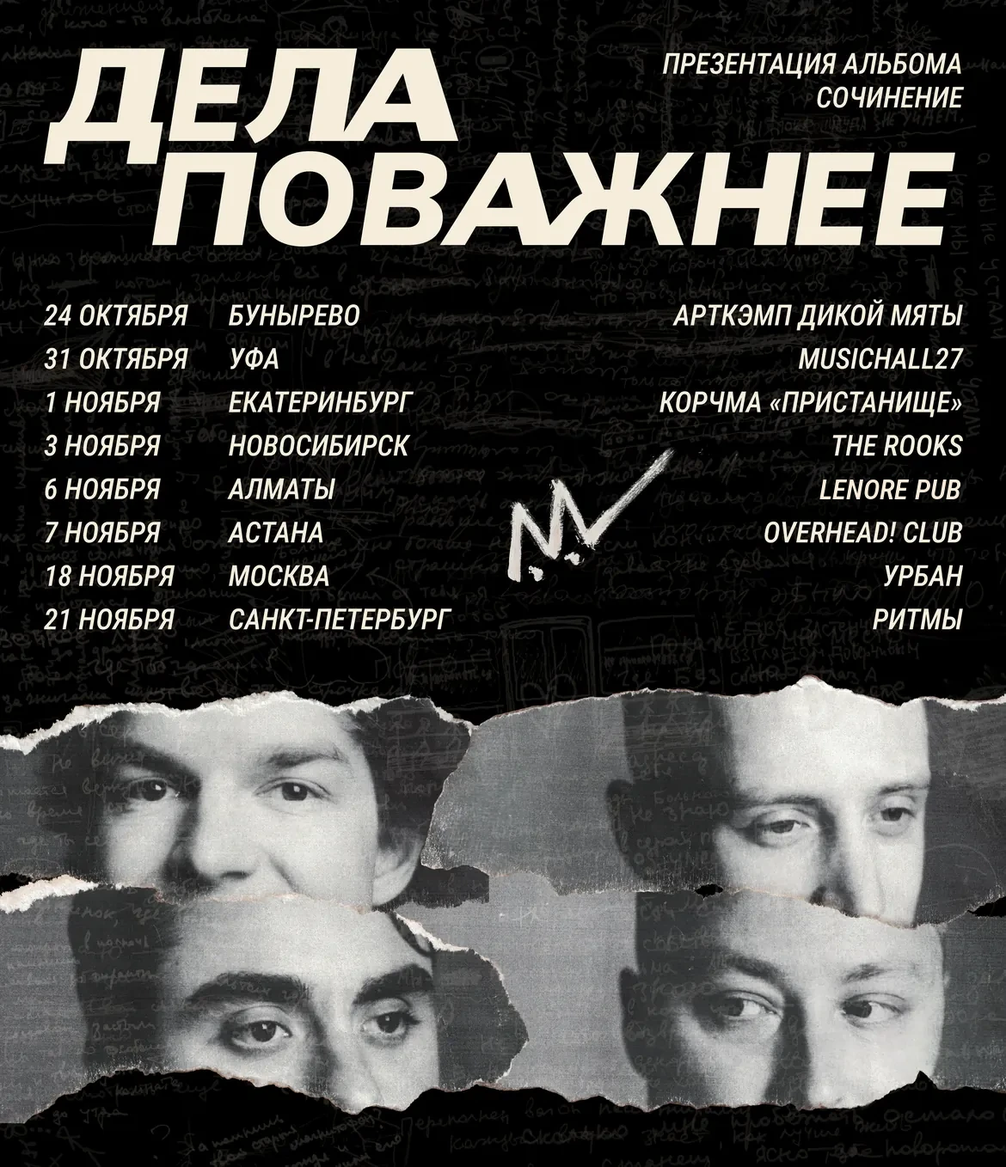
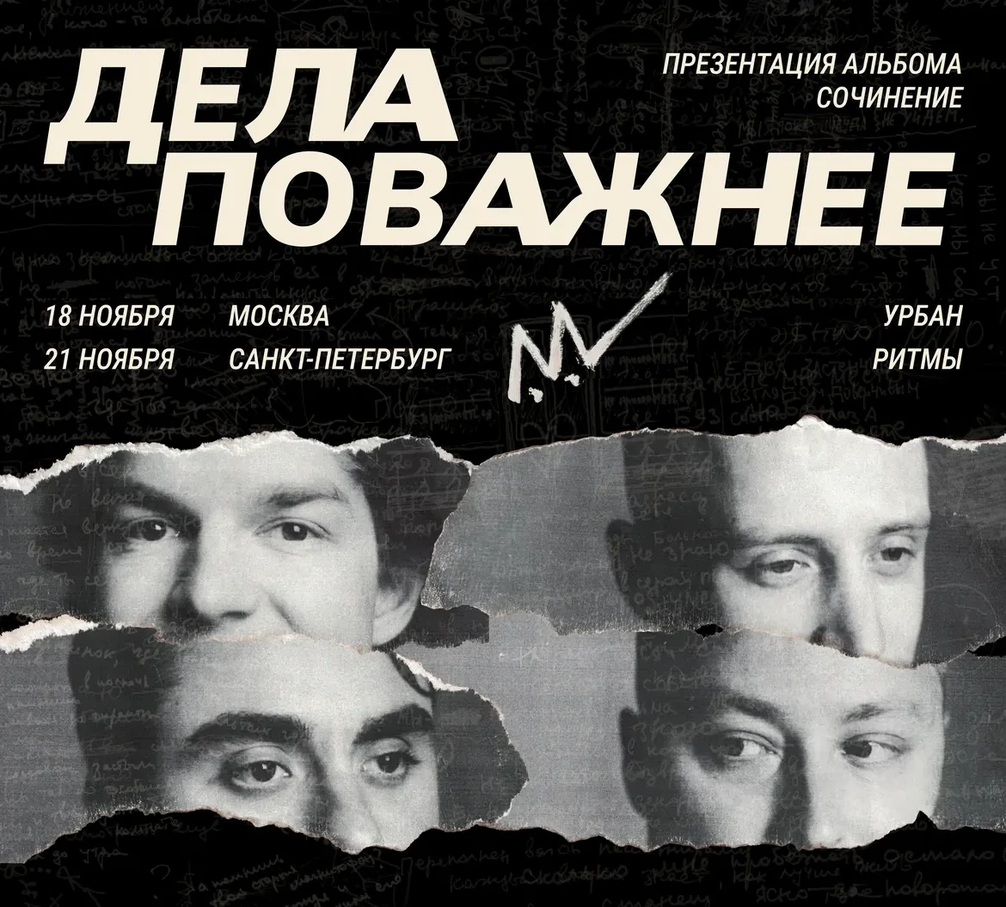
Leave only the Moscow and Saint Petersburg concerts
The rest of the tour has been played. /tickets lists the two remaining
concerts; the landing's tour poster is cut down to its header and those
two rows (layout ratios and the brace updated for the shorter sheet).
Posters of the past concerts are removed.

diff --git a/templates/tickets.html b/templates/tickets.html
@@ -4,7 +4,7 @@
     <meta charset="UTF-8">
     <meta name="viewport" content="width=device-width, initial-scale=1.0">
     <title>Билеты – Дела поважнее</title>
-    <meta name="description" content="Билеты на концерты группы «Дела поважнее»: презентация альбома «Сочинение». Бунырево, Уфа, Екатеринбург, Новосибирск, Алматы, Астана, Москва, Санкт-Петербург.">
+    <meta name="description" content="Билеты на концерты группы «Дела поважнее»: презентация альбома «Сочинение». Москва, Санкт-Петербург.">
     <meta name="theme-color" content="#000000">
     <meta property="og:site_name" content="Дела поважнее">
     <link rel="icon" href="/static/home/favicon.ico" sizes="any">
@@ -55,11 +55,7 @@
       .gig__when small { display: block; font-size: 0.8em; color: var(--pencil); }
       .gig__city { font-size: clamp(26px, 3.7vw, 48px); line-height: 0.95; overflow-wrap: anywhere; }
       .gig__venue { margin-top: 7px; font-size: clamp(14px, 1.5vw, 17px); line-height: 1.25; color: var(--pencil); }
-      /* what this concert is, where it differs from the page's heading (Bunyrevo
-         is not the album presentation) — in the type's own cream, so it's read */
-      .gig__program { margin-top: 5px; font-size: clamp(14px, 1.5vw, 17px); line-height: 1.25; font-weight: 600; }
       .gig__action { display: flex; flex-direction: column; align-items: flex-end; gap: 9px; }
-      .gig__note { font-weight: 600; font-size: clamp(15px, 1.7vw, 18px); line-height: 1.2; }
       .gig__action .btn { min-width: 10em; }
       /* TicketsCloud (tcwidget.js) wires the click via data-tc-event and tries to
          restyle the button; !important keeps it the same button as the others. */
@@ -116,80 +112,6 @@
 
       <ol class="gigs">
         <li class="gig">
-          <img class="gig__poster" src="/static/home/tour-myata.webp" width="640" height="800" loading="lazy" data-i18n-attr="alt:myata_alt" alt="Афиша концерта в Бунырево, 24 октября, арткэмп «Дикой мяты», вход свободный">
-          <div class="gig__lines">
-            <div class="gig__line">
-              <p class="gig__when listing"><span data-i18n="myata_when">24 октября</span><small data-i18n="myata_time">21:00</small></p>
-              <div class="gig__where">
-                <h2 class="gig__city display" data-i18n="myata_city">Бунырево</h2>
-                <p class="gig__venue listing" data-i18n="myata_venue">Арткэмп «Дикой мяты»</p>
-                <p class="gig__program listing" data-i18n="myata_program">Не презентация: играем любимые песни</p>
-              </div>
-              <div class="gig__action"><span class="gig__note listing" data-i18n="free">Вход свободный</span><a class="btn btn--line" href="https://wmcamp.ru/vacationin/tpost/5er49e2051-2325-oktyabrya-stilnie-vihodnie" target="_blank" rel="noopener" data-i18n="about">О концерте</a></div>
-            </div>
-          </div>
-        </li>
-        <li class="gig">
-          <img class="gig__poster" src="/static/home/tour-ufa.webp" width="640" height="906" loading="lazy" data-i18n-attr="alt:ufa_alt" alt="Афиша концерта в Уфе, 31 октября, MusicHall27">
-          <div class="gig__lines">
-            <div class="gig__line">
-              <p class="gig__when listing"><span data-i18n="ufa_when">31 октября</span></p>
-              <div class="gig__where">
-                <h2 class="gig__city display" data-i18n="ufa_city">Уфа</h2>
-                <p class="gig__venue listing" data-i18n="ufa_venue">MusicHall27, ул. Кирова, 27</p>
-              </div>
-              <div class="gig__action"><button type="button" class="gig__tix btn btn--fill tc-background-tomato" data-tc-event="6a46a070983da59ac77d8ccd" data-tc-token="eyJhbGciOiJIUzI1NiIsImlzcyI6InRpY2tldHNjbG91ZC5ydSIsInR5cCI6IkpXVCJ9.eyJwIjoiNWQ3ZmI4NjY0MmIyYjZhMzI5NjI1YjMyIn0.f8LLjhDTa68xuLUNnxHyqXfKEhrk4xaUWih52CEt7PU" data-tc-utm_source="site" data-i18n="tickets">Билеты</button></div>
-            </div>
-          </div>
-        </li>
-        <li class="gig">
-          <img class="gig__poster" src="/static/home/tour-ekb.webp" width="640" height="906" loading="lazy" data-i18n-attr="alt:ekb_alt" alt="Афиша концерта в Екатеринбурге, 1 ноября, корчма «Пристанище»">
-          <div class="gig__lines">
-            <div class="gig__line">
-              <p class="gig__when listing"><span data-i18n="ekb_when">1 ноября</span></p>
-              <div class="gig__where">
-                <h2 class="gig__city display" data-i18n="ekb_city">Екатеринбург</h2>
-                <p class="gig__venue listing" data-i18n="ekb_venue">Корчма «Пристанище», ул. Бебеля, 124</p>
-              </div>
-              <div class="gig__action"><button type="button" class="gig__tix btn btn--fill tc-background-tomato" data-tc-event="6a4b6ed19f4bf9931aca2868" data-tc-token="eyJhbGciOiJIUzI1NiIsImlzcyI6InRpY2tldHNjbG91ZC5ydSIsInR5cCI6IkpXVCJ9.eyJwIjoiNWQ3ZmI4NjY0MmIyYjZhMzI5NjI1YjMyIn0.f8LLjhDTa68xuLUNnxHyqXfKEhrk4xaUWih52CEt7PU" data-tc-utm_source="site" data-i18n="tickets">Билеты</button></div>
-            </div>
-          </div>
-        </li>
-        <li class="gig">
-          <img class="gig__poster" src="/static/home/tour-nsk.webp" width="640" height="906" loading="lazy" data-i18n-attr="alt:nsk_alt" alt="Афиша концерта в Новосибирске, 3 ноября, The Rooks">
-          <div class="gig__lines">
-            <div class="gig__line">
-              <p class="gig__when listing"><span data-i18n="nsk_when">3 ноября</span></p>
-              <div class="gig__where">
-                <h2 class="gig__city display" data-i18n="nsk_city">Новосибирск</h2>
-                <p class="gig__venue listing" data-i18n="nsk_venue">The Rooks, ул. Коммунистическая, 45</p>
-              </div>
-              <div class="gig__action"><button type="button" class="gig__tix btn btn--fill tc-background-tomato" data-tc-event="6a7085d06d1bdc42b48fdf81" data-tc-token="eyJhbGciOiJIUzI1NiIsImlzcyI6InRpY2tldHNjbG91ZC5ydSIsInR5cCI6IkpXVCJ9.eyJwIjoiNWQ3ZmI4NjY0MmIyYjZhMzI5NjI1YjMyIn0.f8LLjhDTa68xuLUNnxHyqXfKEhrk4xaUWih52CEt7PU" data-tc-utm_source="site" data-i18n="tickets">Билеты</button></div>
-            </div>
-          </div>
-        </li>
-        <li class="gig">
-          <img class="gig__poster" src="/static/home/tour-kz.webp" width="640" height="800" loading="lazy" data-i18n-attr="alt:kz_alt" alt="Афиша концертов в Казахстане: 6 ноября — Алматы, фестиваль «Шабаш»; 7 ноября — Астана, клуб Overhead">
-          <div class="gig__lines">
-            <div class="gig__line">
-              <p class="gig__when listing"><span data-i18n="almaty_when">6 ноября</span></p>
-              <div class="gig__where">
-                <h2 class="gig__city display" data-i18n="almaty_city">Алматы</h2>
-                <p class="gig__venue listing" data-i18n="almaty_venue">Фестиваль «Шабаш»</p>
-              </div>
-              <div class="gig__action"><a class="btn btn--fill" href="https://ticketon.kz/concerts/event/tckt2-dela-povazhnee-shabash-almaty" target="_blank" rel="noopener" data-i18n="tickets">Билеты</a></div>
-            </div>
-            <div class="gig__line">
-              <p class="gig__when listing"><span data-i18n="astana_when">7 ноября</span></p>
-              <div class="gig__where">
-                <h2 class="gig__city display" data-i18n="astana_city">Астана</h2>
-                <p class="gig__venue listing" data-i18n="astana_venue">Overhead! Club</p>
-              </div>
-              <div class="gig__action"><a class="btn btn--fill" href="https://ticketon.kz/concerts/event/tckt2-dela-povazhnee-shabash-astana" target="_blank" rel="noopener" data-i18n="tickets">Билеты</a></div>
-            </div>
-          </div>
-        </li>
-        <li class="gig">
           <img class="gig__poster" src="/static/home/tour-msk.webp" width="640" height="906" loading="lazy" data-i18n-attr="alt:msk_alt" alt="Афиша концерта в Москве, 18 ноября, Урбан">
           <div class="gig__lines">
             <div class="gig__line">
@@ -229,60 +151,33 @@
       window.DP_I18N = {
         ru: {
           title: "Билеты – Дела поважнее",
-          meta_desc: "Билеты на концерты группы «Дела поважнее»: презентация альбома «Сочинение». Бунырево, Уфа, Екатеринбург, Новосибирск, Алматы, Астана, Москва, Санкт-Петербург.",
+          meta_desc: "Билеты на концерты группы «Дела поважнее»: презентация альбома «Сочинение». Москва, Санкт-Петербург.",
           logo_alt: "Дела поважнее", nav_menu: "Меню",
           nav_release: "Альбом «Сочинение»", nav_concerts: "Концерты", nav_tickets: "Билеты", nav_listen: "Слушать", nav_play: "Играть →",
           h1: "Билеты", sub: "Презентация альбома «Сочинение»",
-          tickets: "Билеты", free: "Вход свободный", about: "О концерте",
-          myata_when: "24 октября", myata_time: "21:00", myata_city: "Бунырево", myata_venue: "Арткэмп «Дикой мяты»",
-          myata_program: "(Любимые песни)",
-          myata_alt: "Афиша концерта в Бунырево, 24 октября, арткэмп «Дикой мяты», вход свободный",
-          ufa_when: "31 октября", ufa_city: "Уфа", ufa_venue: "MusicHall27, ул. Кирова, 27", ufa_alt: "Афиша концерта в Уфе, 31 октября, MusicHall27",
-          ekb_when: "1 ноября", ekb_city: "Екатеринбург", ekb_venue: "Корчма «Пристанище», ул. Бебеля, 124", ekb_alt: "Афиша концерта в Екатеринбурге, 1 ноября, корчма «Пристанище»",
-          nsk_when: "3 ноября", nsk_city: "Новосибирск", nsk_venue: "The Rooks, ул. Коммунистическая, 45", nsk_alt: "Афиша концерта в Новосибирске, 3 ноября, The Rooks",
-          almaty_when: "6 ноября", almaty_city: "Алматы", almaty_venue: "Фестиваль «Шабаш»",
-          astana_when: "7 ноября", astana_city: "Астана", astana_venue: "Overhead! Club",
-          kz_alt: "Афиша концертов в Казахстане: 6 ноября — Алматы, фестиваль «Шабаш»; 7 ноября — Астана, клуб Overhead",
+          tickets: "Билеты",
           msk_when: "18 ноября", msk_city: "Москва", msk_venue: "Урбан, ул. Б. Новодмитровская, 36с24", msk_alt: "Афиша концерта в Москве, 18 ноября, Урбан",
           spb_when: "21 ноября", spb_city: "Санкт-Петербург", spb_venue: "Ритмы, Кожевенная линия, 34", spb_alt: "Афиша концерта в Санкт-Петербурге, 21 ноября, Ритмы",
           footer_copy: "© Дела поважнее, 2026", footer_home: "На главную"
         },
         en: {
           title: "Tickets – Dela povazhnee",
-          meta_desc: "Tickets for Dela povazhnee shows: the «Sochinenie» album presentation. Bunyrevo, Ufa, Ekaterinburg, Novosibirsk, Almaty, Astana, Moscow, Saint Petersburg.",
+          meta_desc: "Tickets for Dela povazhnee shows: the «Sochinenie» album presentation. Moscow, Saint Petersburg.",
           logo_alt: "Dela povazhnee", nav_menu: "Menu",
           nav_release: "Album «Sochinenie»", nav_concerts: "Shows", nav_tickets: "Tickets", nav_listen: "Listen", nav_play: "Play →",
           h1: "Tickets", sub: "«Sochinenie» album presentation",
-          tickets: "Tickets", free: "Free entry", about: "About the show",
-          myata_when: "October 24", myata_time: "21:00", myata_city: "Bunyrevo", myata_venue: "Dikaya Myata art camp",
-          myata_program: "Not the album presentation: we play the favourites",
-          myata_alt: "Bunyrevo show poster, October 24, Dikaya Myata art camp, free entry",
-          ufa_when: "October 31", ufa_city: "Ufa", ufa_venue: "MusicHall27, Kirova 27", ufa_alt: "Ufa show poster, October 31, MusicHall27",
-          ekb_when: "November 1", ekb_city: "Ekaterinburg", ekb_venue: "Pristanishche, Bebelya 124", ekb_alt: "Ekaterinburg show poster, November 1, Pristanishche",
-          nsk_when: "November 3", nsk_city: "Novosibirsk", nsk_venue: "The Rooks, Kommunisticheskaya 45", nsk_alt: "Novosibirsk show poster, November 3, The Rooks",
-          almaty_when: "November 6", almaty_city: "Almaty", almaty_venue: "Shabash festival",
-          astana_when: "November 7", astana_city: "Astana", astana_venue: "Overhead! Club",
-          kz_alt: "Kazakhstan shows poster: November 6 — Almaty, Shabash festival; November 7 — Astana, Overhead club",
+          tickets: "Tickets",
           msk_when: "November 18", msk_city: "Moscow", msk_venue: "Urban, B. Novodmitrovskaya 36s24", msk_alt: "Moscow show poster, November 18, Urban",
           spb_when: "November 21", spb_city: "Saint Petersburg", spb_venue: "Ritmy, Kozhevennaya liniya 34", spb_alt: "Saint Petersburg show poster, November 21, Ritmy",
           footer_copy: "© Dela povazhnee, 2026", footer_home: "Home"
         },
         zh: {
           title: "购票 – Dela povazhnee",
-          meta_desc: "Dela povazhnee 演出门票：专辑《Sochinenie》首演。Bunyrevo、乌法、叶卡捷琳堡、新西伯利亚、阿拉木图、阿斯塔纳、莫斯科、圣彼得堡。",
+          meta_desc: "Dela povazhnee 演出门票：专辑《Sochinenie》首演。莫斯科、圣彼得堡。",
           logo_alt: "Dela povazhnee", nav_menu: "菜单",
           nav_release: "专辑《Sochinenie》", nav_concerts: "演出", nav_tickets: "购票", nav_listen: "收听", nav_play: "开始游戏 →",
           h1: "购票", sub: "专辑《Sochinenie》首演",
-          tickets: "购票", free: "免费入场", about: "演出详情",
-          myata_when: "10月24日", myata_time: "21:00", myata_city: "Bunyrevo", myata_venue: "Dikaya Myata 艺术营",
-          myata_program: "非专辑首演：演唱大家喜爱的歌曲",
-          myata_alt: "Bunyrevo 演出海报，10月24日，Dikaya Myata 艺术营，免费入场",
-          ufa_when: "10月31日", ufa_city: "乌法", ufa_venue: "MusicHall27, Kirova 27", ufa_alt: "乌法演出海报，10月31日，MusicHall27",
-          ekb_when: "11月1日", ekb_city: "叶卡捷琳堡", ekb_venue: "Pristanishche, Bebelya 124", ekb_alt: "叶卡捷琳堡演出海报，11月1日，Pristanishche",
-          nsk_when: "11月3日", nsk_city: "新西伯利亚", nsk_venue: "The Rooks, Kommunisticheskaya 45", nsk_alt: "新西伯利亚演出海报，11月3日，The Rooks",
-          almaty_when: "11月6日", almaty_city: "阿拉木图", almaty_venue: "Shabash 音乐节",
-          astana_when: "11月7日", astana_city: "阿斯塔纳", astana_venue: "Overhead! Club",
-          kz_alt: "哈萨克斯坦演出海报：11月6日 — 阿拉木图，Shabash 音乐节；11月7日 — 阿斯塔纳，Overhead 俱乐部",
+          tickets: "购票",
           msk_when: "11月18日", msk_city: "莫斯科", msk_venue: "Urban, B. Novodmitrovskaya 36s24", msk_alt: "莫斯科演出海报，11月18日，Urban",
           spb_when: "11月21日", spb_city: "圣彼得堡", spb_venue: "Ritmy, Kozhevennaya liniya 34", spb_alt: "圣彼得堡演出海报，11月21日，Ritmy",
           footer_copy: "© Dela povazhnee, 2026", footer_home: "返回首页"

diff --git a/templates/home.html b/templates/home.html
@@ -148,26 +148,26 @@
       .concerts .wrap { flex: 1 1 auto; min-height: 0; display: flex; flex-direction: column; }
       .concerts .section__eyebrow { margin-bottom: 4px; } /* the poster brings its own top margin */
       .tour-row { display: flex; align-items: stretch; gap: clamp(14px, 1.8vw, 24px); margin-block: auto; }
-      /* Desktop poster (tour-d.webp, 2000×1276): the sheet's type with a margin
-         of its handwriting around it — 3.08% left/right, 3.5% top/bottom. The
+      /* Desktop poster (tour-d.webp, 2000×745): the sheet's type with a margin
+         of its handwriting around it — 3.08% left/right, 6% top/bottom. The
          margin hangs outside .tour and fades out, so the poster has no edge on
          the page and its type starts on the page's own left line. .tour is the
          type block; it gives way to the height like the album cover
-         (width = image height × 1.4764). */
-      .tour { display: block; flex: 0 1 auto; min-width: 0; width: min(100%, calc((100svh - 200px) * 1.4764)); }
+         (width = image height × 2.5288). */
+      .tour { display: block; flex: 0 1 auto; min-width: 0; width: min(100%, calc((100svh - 200px) * 2.5288)); }
       .tour picture { display: block; margin-inline: -3.08%; }
       .tour img {
         display: block; width: 100%; height: auto;
-        -webkit-mask-image: linear-gradient(to right, transparent, #000 3%, #000 97%, transparent), linear-gradient(to bottom, transparent, #000 3.4%, #000 96.6%, transparent);
+        -webkit-mask-image: linear-gradient(to right, transparent, #000 3%, #000 97%, transparent), linear-gradient(to bottom, transparent, #000 5.9%, #000 94.1%, transparent);
         -webkit-mask-composite: source-in;
-        mask-image: linear-gradient(to right, transparent, #000 3%, #000 97%, transparent), linear-gradient(to bottom, transparent, #000 3.4%, #000 96.6%, transparent);
+        mask-image: linear-gradient(to right, transparent, #000 3%, #000 97%, transparent), linear-gradient(to bottom, transparent, #000 5.9%, #000 94.1%, transparent);
         mask-composite: intersect;
       }
       /* The button belongs to the list of dates, so it stands beside the list
-         (rows 44.5%–96.5% of the poster's height), and a pencilled brace gathers
-         the eight rows into it — the way the drafts on the cover annotate
+         (rows 76.2%–94% of the poster's height), and a pencilled brace gathers
+         the two rows into it — the way the drafts on the cover annotate
          themselves. */
-      .tour__cta { flex: 0 0 auto; display: grid; grid-template-rows: 44.5fr 52fr 3.5fr; }
+      .tour__cta { flex: 0 0 auto; display: grid; grid-template-rows: 76.2fr 17.8fr 6fr; }
       .tour__aside { grid-row: 2; position: relative; display: flex; align-items: center; padding-left: 52px; }
       .tour__brace { position: absolute; left: 0; top: 0; width: 30px; height: 100%; overflow: visible; }
       .tour__brace path { fill: none; stroke: var(--chalk); stroke-width: 1.3px; stroke-linecap: round; stroke-linejoin: round; opacity: 0.6; }
@@ -175,7 +175,7 @@
       /* too narrow for poster + button side by side: the button goes under the list */
       @media (max-width: 1000px) {
         .tour-row { flex-direction: column; align-items: flex-start; gap: 16px; }
-        .tour { width: min(100%, calc((100svh - 264px) * 1.4764)); }
+        .tour { width: min(100%, calc((100svh - 264px) * 2.5288)); }
         .tour__cta { display: block; }
         .tour__aside { padding-left: 0; }
         .tour__brace { display: none; }
@@ -238,11 +238,11 @@
         .release__cue { position: static; align-self: flex-start; }
         .release__lead { max-width: none; font-size: 15px; line-height: 1.4; margin: 12px 0 16px; }
 
-        /* Concerts: the whole vertical poster (tour-m.webp, 1170×1358, with the
+        /* Concerts: the whole vertical poster (tour-m.webp, 1170×1055, with the
            faces — it keeps its edges), then the button, full width */
         .concerts .section__eyebrow { margin-bottom: 12px; flex-wrap: wrap; row-gap: 0; }
         .tour-row { align-items: stretch; gap: 14px; }
-        .tour { align-self: center; width: min(100%, calc(min(100svh - 218px, 100lvh - 262px) * 0.8615)); }
+        .tour { align-self: center; width: min(100%, calc(min(100svh - 218px, 100lvh - 262px) * 1.109)); }
         .tour picture { margin-inline: 0; }
         .tour img { -webkit-mask-image: none; mask-image: none; }
         .tour__cta .btn { width: 100%; }
@@ -331,8 +331,8 @@
         <div class="tour-row">
           <a class="tour" href="/tickets">
             <picture>
-              <source media="(max-width: 760px)" srcset="/static/home/tour-m.webp" width="1170" height="1358">
-              <img src="/static/home/tour-d.webp" width="2000" height="1276" data-i18n-attr="alt:tour_alt" alt="Афиша тура «Презентация альбома Сочинение»: 24 октября — Бунырево, арткэмп «Дикой мяты»; 31 октября — Уфа, MusicHall27; 1 ноября — Екатеринбург, корчма «Пристанище»; 3 ноября — Новосибирск, The Rooks; 6 ноября — Алматы, Lenore Pub; 7 ноября — Астана, Overhead! Club; 18 ноября — Москва, Урбан; 21 ноября — Санкт-Петербург, Ритмы">
+              <source media="(max-width: 760px)" srcset="/static/home/tour-m.webp" width="1170" height="1055">
+              <img src="/static/home/tour-d.webp" width="2000" height="745" data-i18n-attr="alt:tour_alt" alt="Афиша тура «Презентация альбома Сочинение»: 18 ноября — Москва, Урбан; 21 ноября — Санкт-Петербург, Ритмы">
             </picture>
           </a>
           <div class="tour__cta">
@@ -399,7 +399,7 @@
           release_lead: "Сохрани альбом заранее — он придёт в твою медиатеку в день выхода. И чем больше пресейвов, тем выше он поднимется в стримингах.",
           btn_release: "Слушать альбом",
           concerts_eyebrow: 'Концерты <small>презентация альбома «Сочинение»</small>', btn_tickets: "Билеты",
-          tour_alt: "Афиша тура «Презентация альбома Сочинение»: 24 октября — Бунырево, арткэмп «Дикой мяты»; 31 октября — Уфа, MusicHall27; 1 ноября — Екатеринбург, корчма «Пристанище»; 3 ноября — Новосибирск, The Rooks; 6 ноября — Алматы, Lenore Pub; 7 ноября — Астана, Overhead! Club; 18 ноября — Москва, Урбан; 21 ноября — Санкт-Петербург, Ритмы",
+          tour_alt: "Афиша тура «Презентация альбома Сочинение»: 18 ноября — Москва, Урбан; 21 ноября — Санкт-Петербург, Ритмы",
           listen_eyebrow: "Ссылки", listen_title: 'Найти<br>нас',
           streamings: "Стриминги", yandex: "Яндекс Музыка", vkmusic: "VK Музыка",
           socials: "Соцсети", vk: "ВКонтакте", instagram: "Запретграм",
@@ -417,7 +417,7 @@
           release_lead: "Pre-save it now and it lands in your library the day it drops. Every pre-save also pushes the album higher on streaming.",
           btn_release: "Listen to the album",
           concerts_eyebrow: 'Shows <small>«Sochinenie» album presentation</small>', btn_tickets: "Tickets",
-          tour_alt: "«Sochinenie» album presentation tour poster: October 24 — Bunyrevo, Dikaya Myata art camp; October 31 — Ufa, MusicHall27; November 1 — Ekaterinburg, Pristanishche; November 3 — Novosibirsk, The Rooks; November 6 — Almaty, Lenore Pub; November 7 — Astana, Overhead! Club; November 18 — Moscow, Urban; November 21 — Saint Petersburg, Ritmy",
+          tour_alt: "«Sochinenie» album presentation tour poster: November 18 — Moscow, Urban; November 21 — Saint Petersburg, Ritmy",
           listen_eyebrow: "Links", listen_title: 'Find<br>us',
           streamings: "Streaming", yandex: "Yandex Music", vkmusic: "VK Music",
           socials: "Social", vk: "VKontakte", instagram: "Ins****am",
@@ -435,7 +435,7 @@
           release_lead: "现在就预存这张专辑——上线当天它会自动进入你的音乐库。预存越多，专辑在流媒体上的排名越高。",
           btn_release: "收听专辑",
           concerts_eyebrow: '演出 <small>专辑《Sochinenie》首演</small>', btn_tickets: "购票",
-          tour_alt: "专辑《Sochinenie》首演巡演海报：10月24日 — Bunyrevo，Dikaya Myata 艺术营；10月31日 — 乌法，MusicHall27；11月1日 — 叶卡捷琳堡，Pristanishche；11月3日 — 新西伯利亚，The Rooks；11月6日 — 阿拉木图，Lenore Pub；11月7日 — 阿斯塔纳，Overhead! Club；11月18日 — 莫斯科，Urban；11月21日 — 圣彼得堡，Ritmy",
+          tour_alt: "专辑《Sochinenie》首演巡演海报：11月18日 — 莫斯科，Urban；11月21日 — 圣彼得堡，Ritmy",
           listen_eyebrow: "链接", listen_title: '找到<br>我们',
           streamings: "流媒体", yandex: "Yandex Music", vkmusic: "VK Music",
           socials: "社交媒体", vk: "VKontakte", instagram: "Ins****am",

diff --git a/tests/test_routing.py b/tests/test_routing.py
@@ -8,13 +8,8 @@ HOME_ASSETS = Path(__file__).parents[1] / "static" / "home"
 # phones, cut above the torn faces on desktop (the hero already has the band).
 TOUR_POSTERS = ("tour-m.webp", "tour-d.webp")
 
-# The tickets page: one poster per row. Kazakhstan shares one for two dates.
+# The tickets page: one poster per row — only the concerts still ahead.
 GIG_POSTERS = (
-    "tour-myata.webp",
-    "tour-ufa.webp",
-    "tour-ekb.webp",
-    "tour-nsk.webp",
-    "tour-kz.webp",
     "tour-msk.webp",
     "tour-spb.webp",
 )
@@ -25,19 +20,11 @@ GIG_POSTERS = (
 RELEASE_COVER = "sochinenie.webp"
 LISTEN_URL = "https://dnkmusic.ru/sochinenie_"
 
-# TicketsCloud events: Ufa, Ekaterinburg, Novosibirsk, Moscow, Saint Petersburg.
+# TicketsCloud events: Moscow, Saint Petersburg.
 EVENT_IDS = (
-    "6a46a070983da59ac77d8ccd",
-    "6a4b6ed19f4bf9931aca2868",
-    "6a7085d06d1bdc42b48fdf81",
     "6a186cb9dd25944b28dbb181",
     "6a19b3b6f4606596ec821030",
 )
-
-TICKETON = {
-    "Алматы": "https://ticketon.kz/concerts/event/tckt2-dela-povazhnee-shabash-almaty",
-    "Астана": "https://ticketon.kz/concerts/event/tckt2-dela-povazhnee-shabash-astana",
-}
 
 
 def test_root_serves_landing(client):
@@ -85,16 +72,16 @@ def test_tickets_page_is_served(client):
     assert "<title>Билеты – Дела поважнее</title>" in client.get("/tickets").text
 
 
-def test_tickets_page_has_one_ticketscloud_trigger_per_russian_city(client):
+def test_tickets_page_has_one_ticketscloud_trigger_per_city(client):
     html = client.get("/tickets").text
     triggers = re.findall(r'<button\b[^>]*data-tc-event="([^"]+)"[^>]*>', html)
 
     assert sorted(triggers) == sorted(EVENT_IDS)
-    assert html.count('data-tc-utm_source="site"') == 5
-    assert html.count('data-tc-token="') == 5
+    assert html.count('data-tc-utm_source="site"') == 2
+    assert html.count('data-tc-token="') == 2
     assert html.count("https://ticketscloud.com/static/scripts/widget/tcwidget.js") == 1
     # same button as every other on the page, whatever the widget tries to restyle
-    assert html.count('class="gig__tix btn btn--fill tc-background-tomato"') == 5
+    assert html.count('class="gig__tix btn btn--fill tc-background-tomato"') == 2
 
 
 def test_tickets_page_forwards_utm_tags_to_ticketscloud(client):
@@ -119,48 +106,13 @@ def test_landing_hands_campaign_tags_over_to_the_tickets_page():
     assert '["utm_medium", "utm_campaign", "utm_content", "utm_term"]' in js
 
 
-def test_tickets_page_lists_the_whole_tour_in_date_order(client):
+def test_tickets_page_lists_the_remaining_concerts_in_date_order(client):
     html = client.get("/tickets").text
     cities = re.findall(r'<h2 class="gig__city display"[^>]*>([^<]+)</h2>', html)
 
-    assert cities == [
-        "Бунырево", "Уфа", "Екатеринбург", "Новосибирск",
-        "Алматы", "Астана", "Москва", "Санкт-Петербург",
-    ]
+    assert cities == ["Москва", "Санкт-Петербург"]
     for name in GIG_POSTERS:
         assert f"/static/home/{name}" in html
-
-
-def test_kazakhstan_concerts_sell_through_ticketon(client):
-    html = client.get("/tickets").text
-    lines = html.split('<div class="gig__line">')[1:]
-
-    for city, url in TICKETON.items():
-        line = next(l for l in lines if f">{city}</h2>" in l)
-        assert f'href="{url}"' in line
-        assert "data-tc-event" not in line
-
-
-def test_dikaya_myata_is_free_entry_with_a_link_to_the_festival(client):
-    html = client.get("/tickets").text
-    line = next(l for l in html.split('<div class="gig__line">')[1:] if ">Бунырево</h2>" in l)
-
-    assert "Вход свободный" in line
-    assert 'href="https://wmcamp.ru/vacationin/tpost/5er49e2051-2325-oktyabrya-stilnie-vihodnie"' in line
-    assert "data-tc-event" not in line      # nothing to buy
-    assert ">Билеты<" not in line
-
-
-def test_only_bunyrevo_is_marked_as_not_the_album_presentation(client):
-    # The page is headed «Презентация альбома «Сочинение»», and Bunyrevo is the
-    # one concert that isn't: it gets a note saying what is played instead.
-    html = client.get("/tickets").text
-    lines = html.split('<div class="gig__line">')[1:]
-    noted = [l for l in lines if "gig__program" in l]
-
-    assert len(noted) == 1
-    assert ">Бунырево</h2>" in noted[0]
-    assert "Не презентация: играем любимые песни" in noted[0]
 
 
 def test_landing_sends_ticket_buyers_to_the_tickets_page(client):
